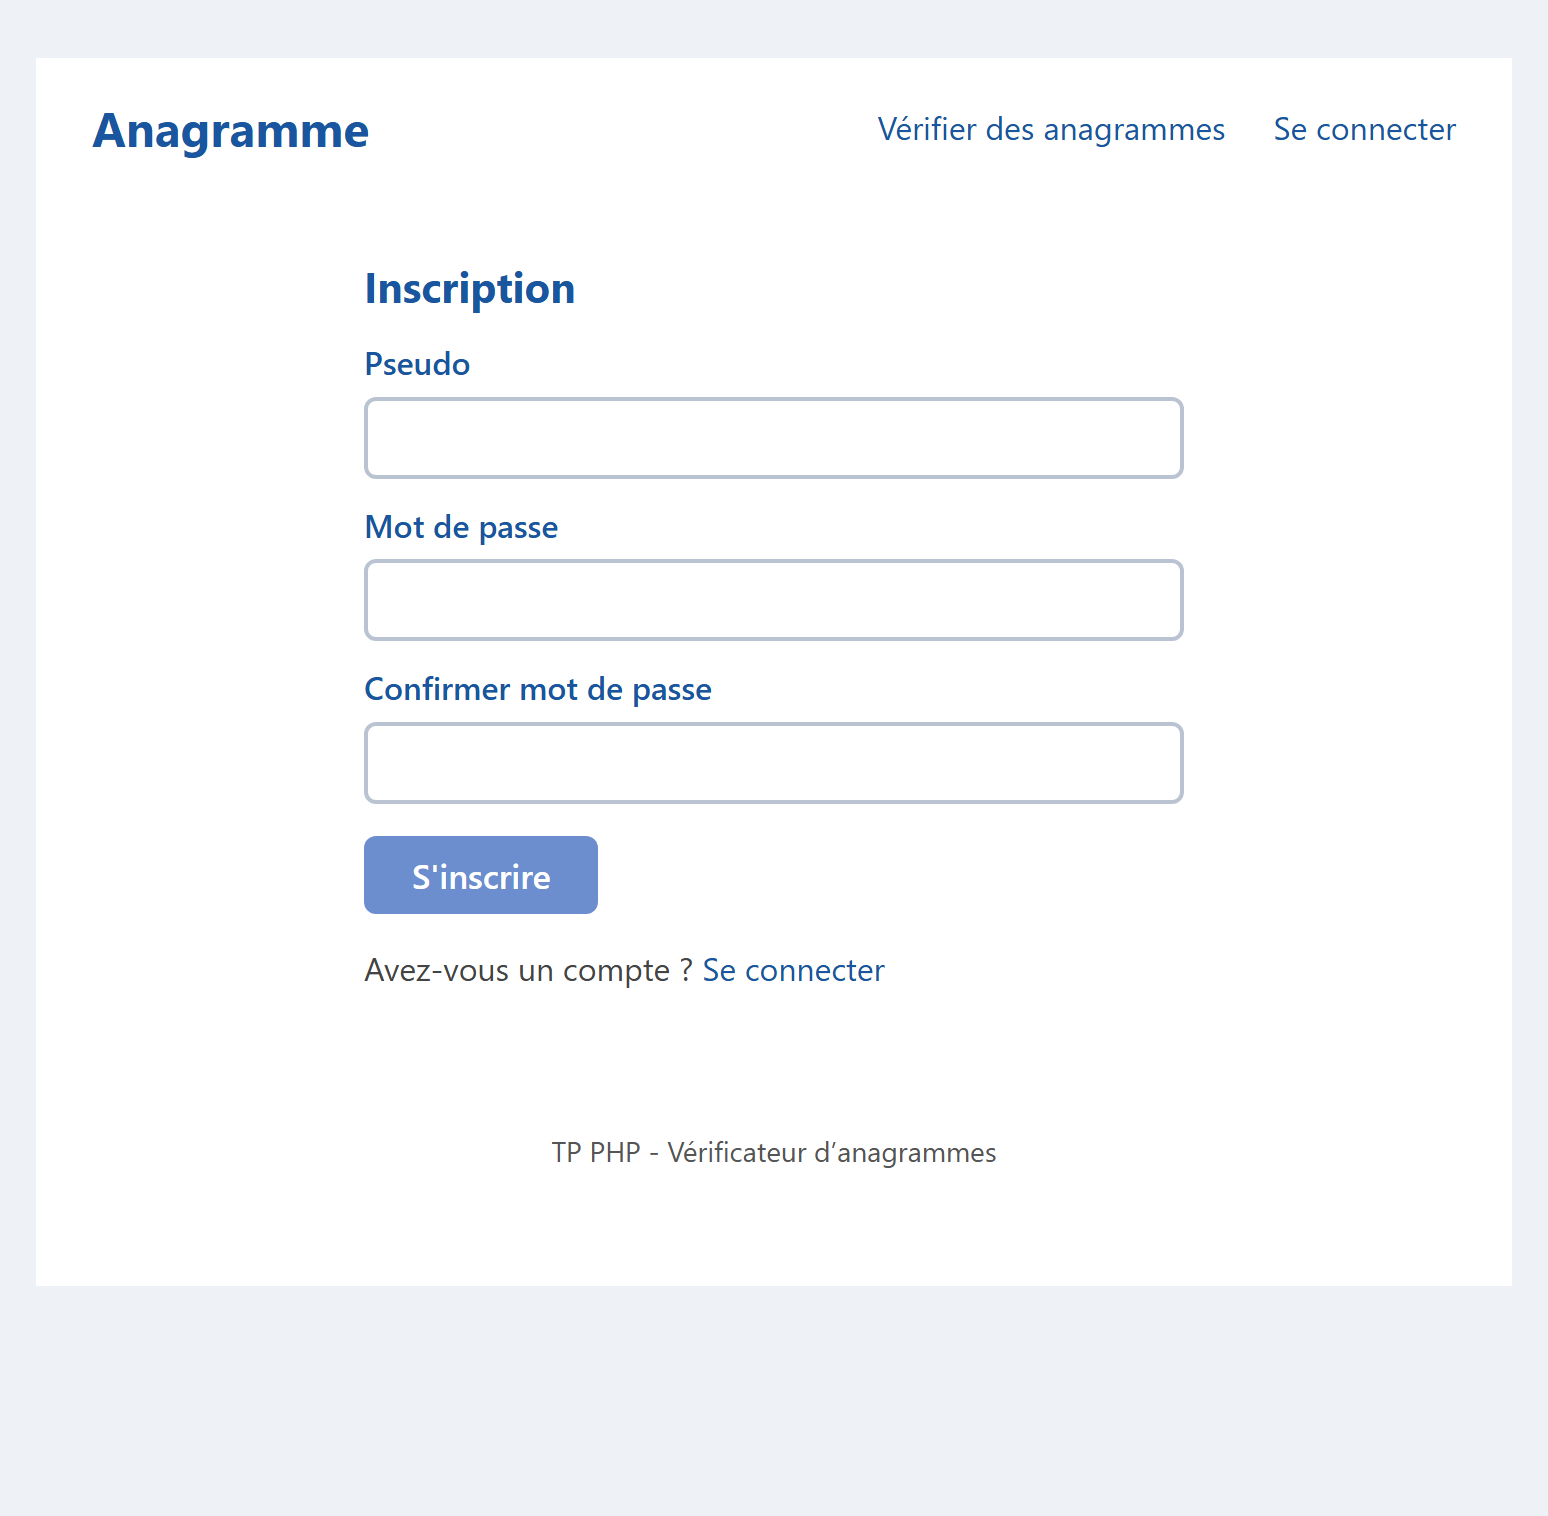
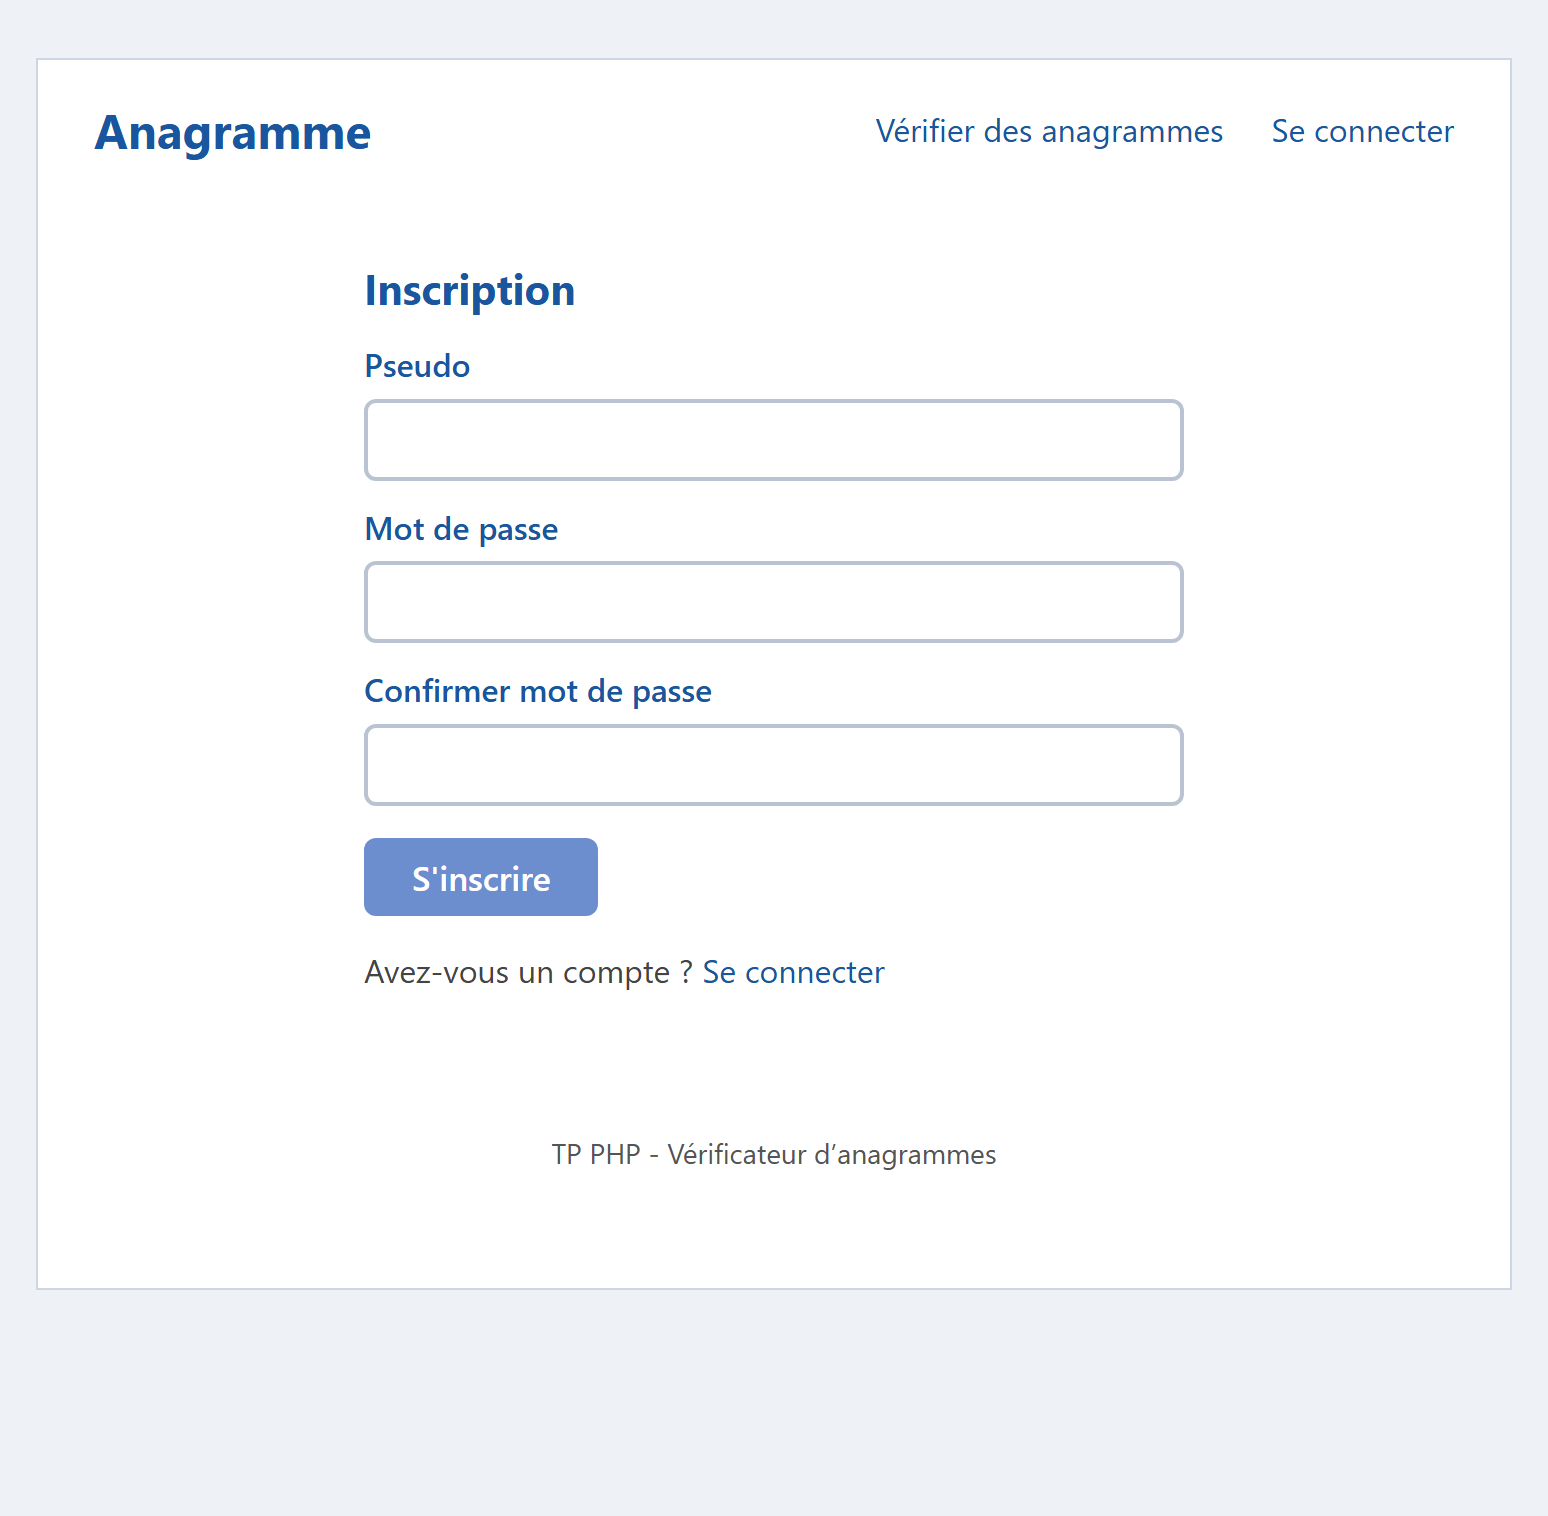
Compte Frédy/password et propagation de la couleur du résultat à la carte

diff --git a/assets/css/style.css b/assets/css/style.css
@@ -142,10 +142,47 @@ a:hover { text-decoration: underline; }
 /* Carte blanche                                                               */
 /* -------------------------------------------------------------------------- */
 .card {
+    position: relative;
+    overflow: hidden;
     background: var(--card);
+    border: 1px solid #CDD6E2;
     margin: 29px 18px 0;
     padding: var(--card-pad-top) 28px 28px;
     min-height: 517px;
+}
+
+/* La couleur du résultat traverse toute la grande carte. */
+.card::after {
+    content: '';
+    position: absolute;
+    inset: 0 auto 0 0;
+    width: 0;
+    pointer-events: none;
+    z-index: 0;
+    opacity: 0.10;
+}
+
+.card > * { position: relative; z-index: 1; }
+
+body.has-result-ok .card { border-color: var(--green); }
+body.has-result-ok .card::after {
+    background: var(--green);
+    animation: sweep-card 900ms ease-out forwards;
+}
+
+body.has-result-ko .card { border-color: var(--red); }
+body.has-result-ko .card::after {
+    background: var(--red);
+    animation: sweep-card 900ms ease-out forwards;
+}
+
+@keyframes sweep-card {
+    from { width: 0; }
+    to   { width: 100%; }
+}
+
+@media (prefers-reduced-motion: reduce) {
+    .card::after { animation: none; width: 100%; }
 }
 
 .site-header {

diff --git a/includes/header.php b/includes/header.php
@@ -11,6 +11,15 @@ if ($forcedLayout === 'wide') {
     $layoutClass = ' layout-narrow';
 }
 
+// Le résultat colore aussi la grande carte (vert pour un succès, rouge sinon).
+$resultState = $result ?? null;
+$resultClass = '';
+if ($resultState === true) {
+    $resultClass = ' has-result-ok';
+} elseif ($resultState === false) {
+    $resultClass = ' has-result-ko';
+}
+
 ?>
 <!doctype html>
 <html lang="fr">
@@ -20,7 +29,7 @@ if ($forcedLayout === 'wide') {
     <title><?= e($pageTitle ?? 'Vérificateur d’anagrammes') ?></title>
     <link rel="stylesheet" href="<?= BASE_URL ?>/assets/css/style.css">
 </head>
-<body class="<?= trim($layoutClass . ($authPage ? ' auth-page' : '')) ?>">
+<body class="<?= trim($layoutClass . ($authPage ? ' auth-page' : '') . $resultClass) ?>">
 <div class="card">
     <header class="site-header">
         <a class="brand" href="<?= BASE_URL ?>/index.php">Anagramme</a>

diff --git a/README.md b/README.md
@@ -21,11 +21,13 @@ correspondre aux huit captures de référence fournies.
 3. Importer le schéma et les données de démonstration :
 
    ```powershell
-   Get-Content -Raw -Encoding UTF8 'sql\schema.sql' | & 'C:\xampp\mysql\bin\mysql.exe' -u root --default-character-set=utf8mb4
+   cmd /c '"C:\xampp\mysql\bin\mysql.exe" -u root --default-character-set=utf8mb4 < "sql\schema.sql"'
    ```
 
-   Le script crée la base `anagrammes_db` et deux comptes de démonstration
-   (mot de passe : `password123`) : `O lyrhes` et `testuser`.
+   (La redirection via `cmd` conserve les accents UTF-8 du pseudo `Frédy`.)
+
+   Le script crée la base `anagrammes_db` et un compte de démonstration
+   unique : `Frédy` / `password`, avec les 9 lignes d'historique de référence.
 
 4. Configuration de la base : `config/database.php` (par défaut `root` / mot de passe vide,
    base `anagrammes_db`, port `3306`).

diff --git a/screenshots/README.md b/screenshots/README.md
@@ -7,6 +7,6 @@
 | `03-connexion.png` | Formulaire de connexion |
 | `04-resultat-positif.png` | Résultat « Les deux chaînes sont des anagrammes. » |
 | `05-resultat-negatif.png` | Résultat « Les deux chaînes ne sont pas des anagrammes. » |
-| `06-historique.png` | Historique de l'utilisateur `O lyrhes` |
+| `06-historique.png` | Historique de l'utilisateur `Frédy` |
 | `07-erreurs.png` | Message pour caractères non autorisés |
 | `08-champs-remplis.png` | Champs remplis, visiteur non connecté (mise en page large) |
